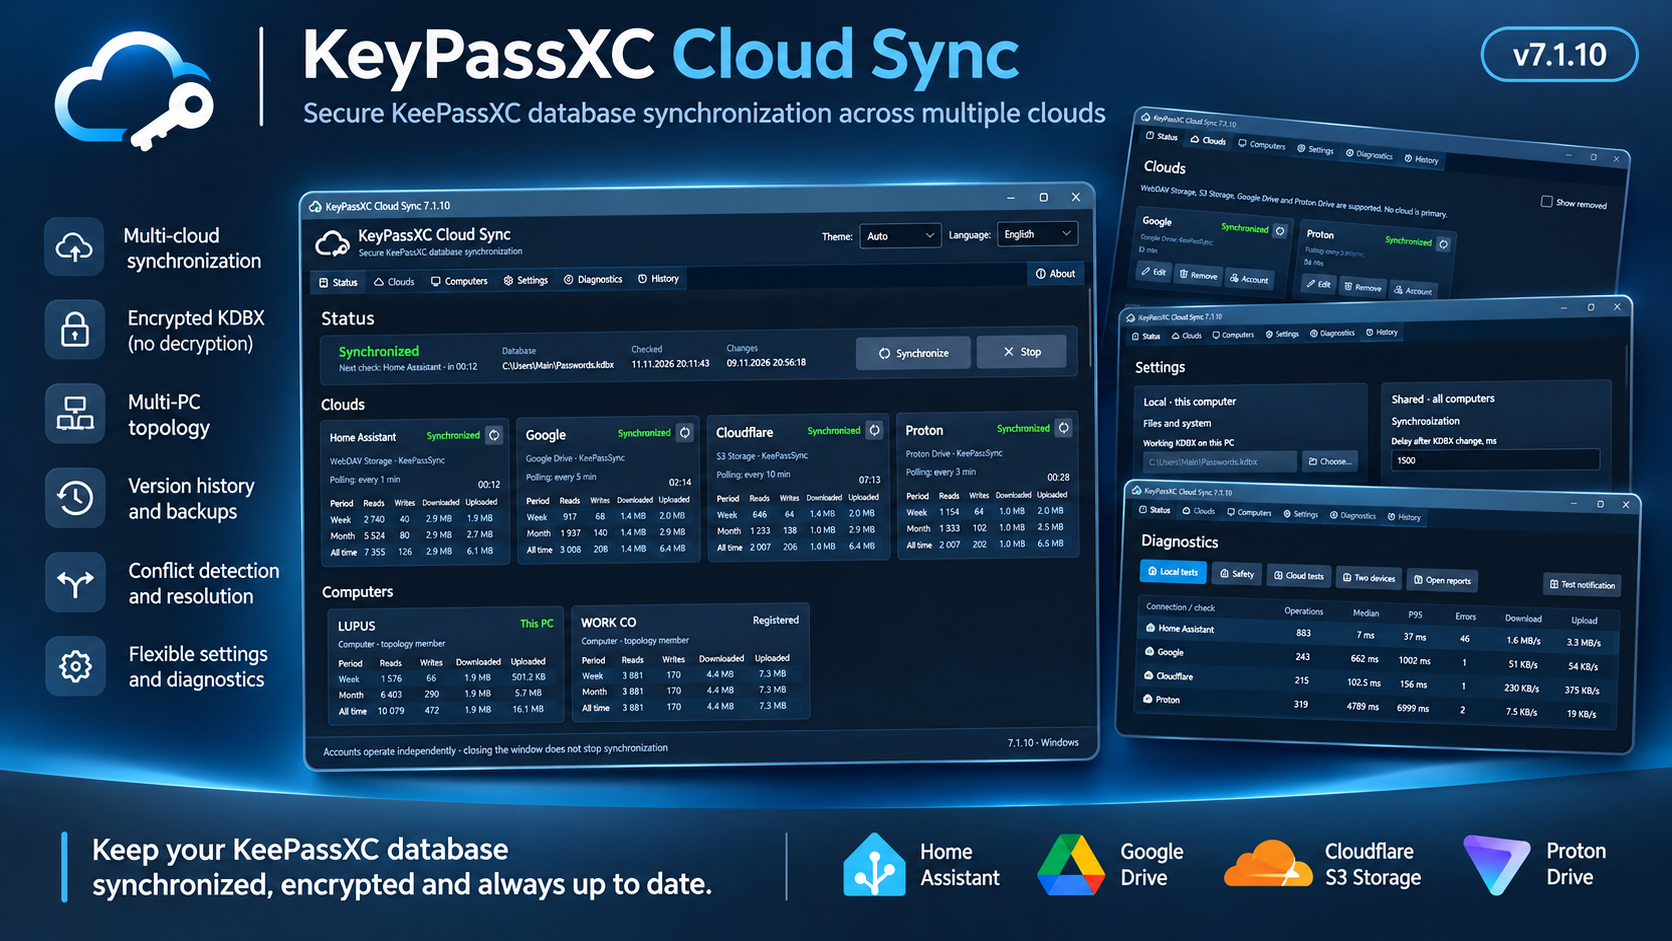
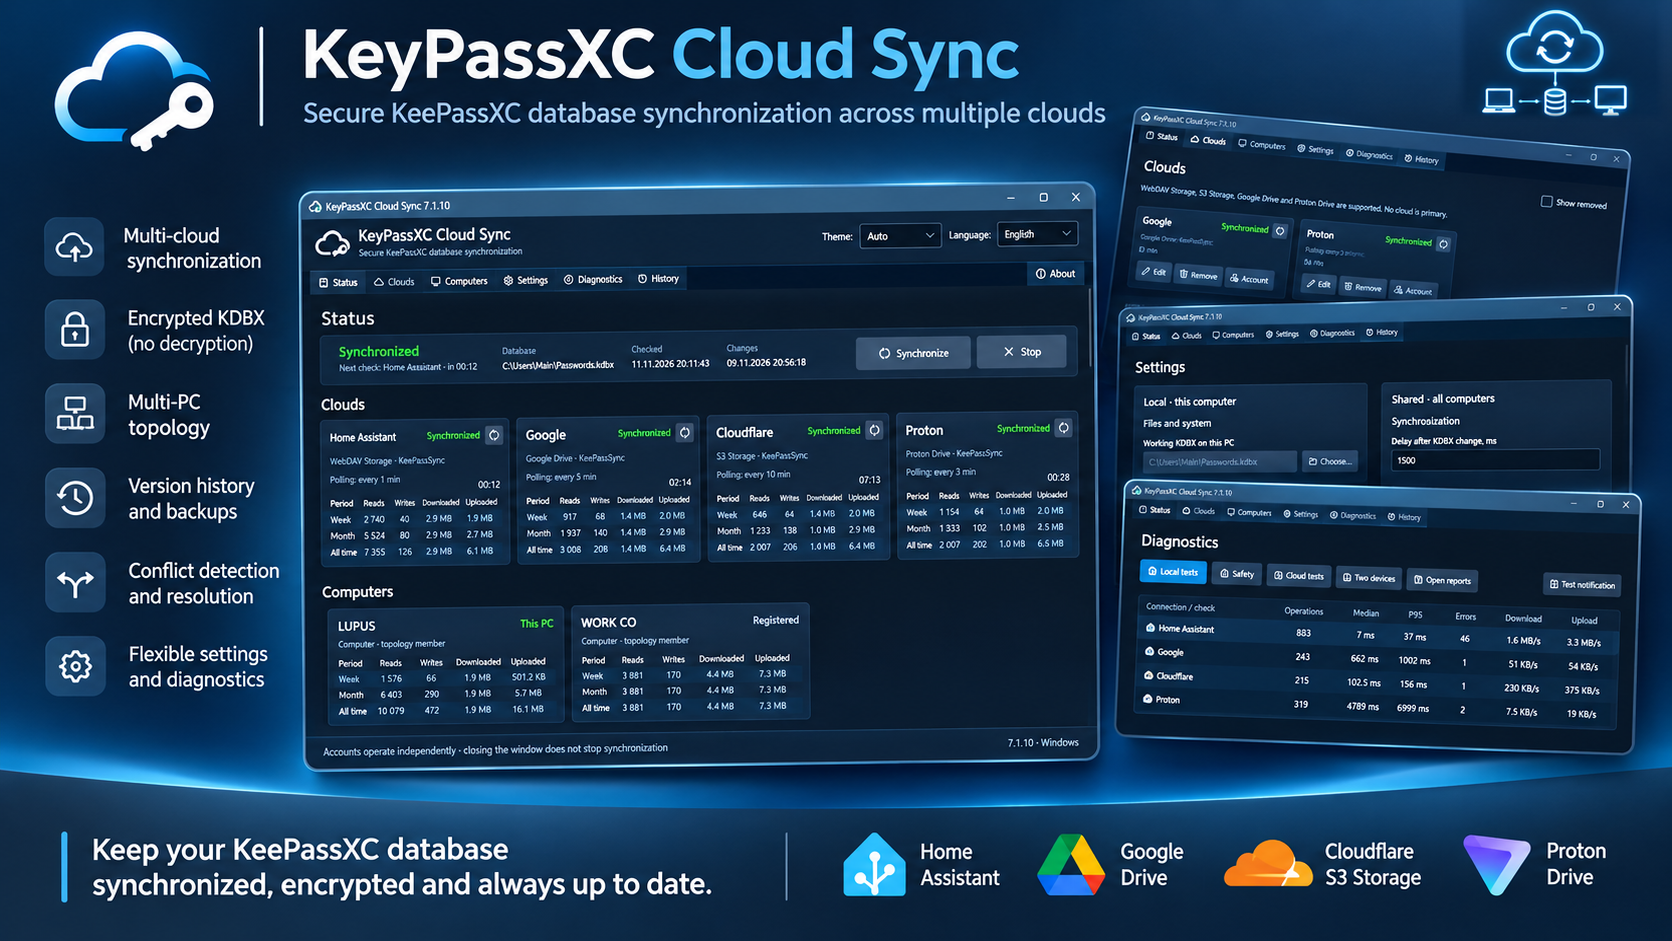
7.1.16

Changed region(s): [[0.8708, 0.0, 0.9952, 0.1233]]

diff --git a/README.md b/README.md
@@ -7,21 +7,20 @@
 [![Windows CI](https://img.shields.io/badge/CI-Windows%20NativeAOT-informational)](.github/workflows/windows.yml)
 [![License: MIT](https://img.shields.io/badge/License-MIT-blue.svg)](LICENSE)
 
-**Version:** 7.1.15 · **Platform:** Windows x64 · **Framework:** .NET 10, Avalonia 12 · **License:** MIT.
+**Version:** 7.1.16 · **Platform:** Windows x64 · **Framework:** .NET 10, Avalonia 12 · **License:** MIT.
 
-> **Version 7 development source — not production qualified.** Version 7.1.15
+> **Version 7 development source — not production qualified.** Version 7.1.16
 > retains the current synchronization engine and corrected manual draft-release
 > workflow. Root-level local `.patch` and `.zip` files are ignored by Git.
 > The application source has **not** been compiled or tested with real clouds;
 > Windows .NET build, CI, safety tests and multi-PC acceptance are required
 > before a stable release.
 
-Version 7.1.15 adds root-only `.gitignore` entries for local `.patch` and
-`.zip` files so source patches and downloaded ZIP archives are not accidentally
-committed. The corrected draft-release workflow from 7.1.14 remains in place:
-it finds the authenticated draft by its exact tag and attaches verified release
-assets by numeric release ID. Windows app code, OAuth behavior and
-synchronization logic are unchanged.
+Version 7.1.16 refreshes the README and GitHub Pages hero collage: the
+fixed version badge in the upper-right corner is replaced with a cloud
+synchronization graphic. The rest of the artwork, including real application
+screenshots, remains unchanged. Synchronization behavior and release workflows
+are unchanged.
 
 
 KeyPassXC Cloud Sync synchronizes encrypted `.kdbx` files between multiple

diff --git a/docs/PROTOCOL.md b/docs/PROTOCOL.md
@@ -1,6 +1,6 @@
 # Synchronization protocol (wire schema 2)
 
-The **application source version** is `7.1.15` (development snapshot). The persistent remote protocol has **schema version 2**. They serve different purposes; the on-disk and remote schema is retained intentionally for safe access to vault data, not as application upgrade code. There is no automatic migration from unrelated remote layouts. The client refuses incompatible remote directories.
+The **application source version** is `7.1.16` (development snapshot). The persistent remote protocol has **schema version 2**. They serve different purposes; the on-disk and remote schema is retained intentionally for safe access to vault data, not as application upgrade code. There is no automatic migration from unrelated remote layouts. The client refuses incompatible remote directories.
 
 ## Remote layout
 
